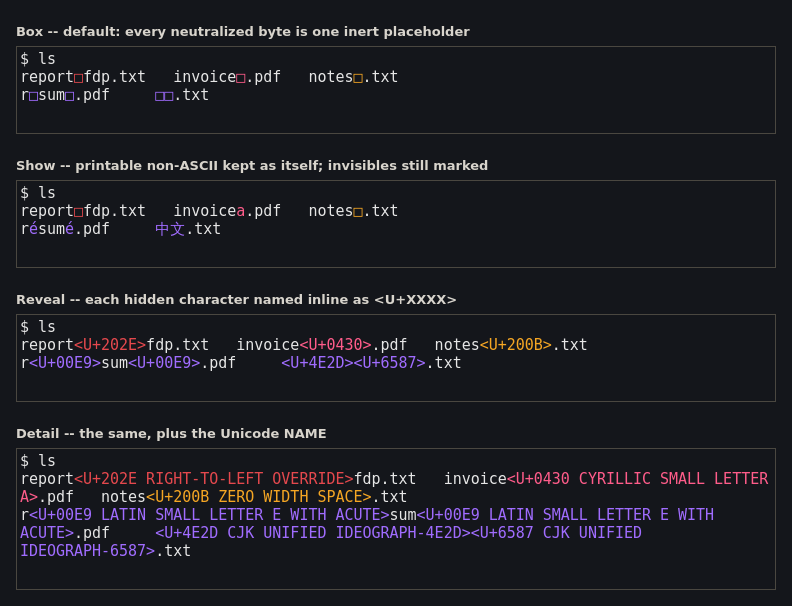
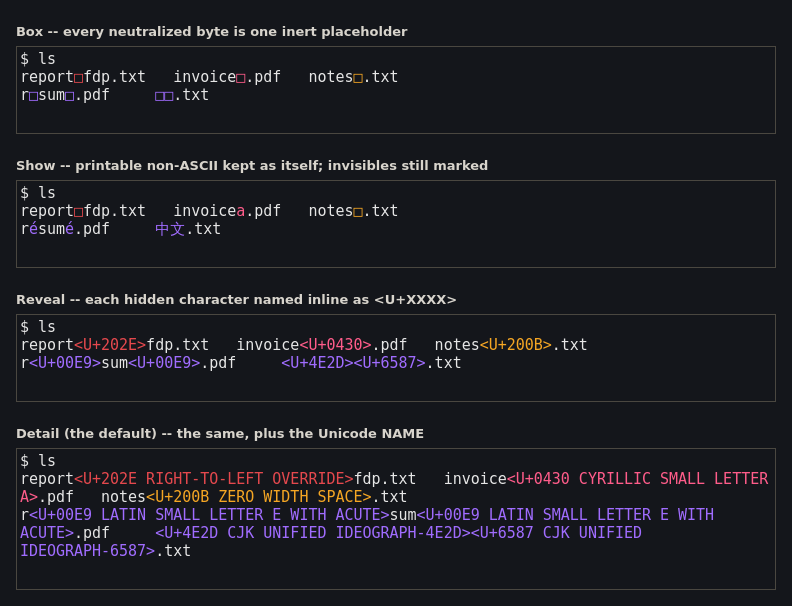
fix: detail is the default display mode, not box
Caught in review. The default is `detail` -- the ctor takes mode='detail',
main.py falls back to 'detail' for an unset/invalid unicode_mode, and
30_defaults.conf annotates it "safe default". Three places said or implied box.

- display-modes-shot.py: the Box panel was labelled "default"; the label now sits
  on Detail, where it belongs.
- hero-shot.py: rendered mode='box' while its docstring and the site figcaption
  both called it "the default display". Renders `detail` now, so the caption is
  true. It also reads better: the badge names the impostor inline
  (invoice<U+0430 CYRILLIC SMALL LETTER A>.pdf) instead of showing an anonymous
  box, and it still fits 560px without wrapping.
- man page DESCRIPTION: "Its default (Box) display" contradicted its own DISPLAY
  MODES section four screens later, which correctly calls detail the safe default.
  Rewritten to describe detail and what each other mode trades.
- site: hero alt text and figcaption rewritten for Detail (the old alt described
  placeholder boxes that are no longer in the image); grid alt names the default.

The "printable ASCII in the default mode" claims elsewhere are unaffected and were
in fact understated: detail's badges are ASCII, whereas box draws U+25A1.

Regenerated both images. Suite green: 448 + 504 + 739, 0 failed.

Changed region(s): [[0.0909, 0.6832, 0.5455, 0.7426], [0.0909, 0.0297, 0.6061, 0.0594]]

diff --git a/index.html b/index.html
@@ -68,10 +68,12 @@
     <a class="btn ghost" href="https://output-lies.github.io">See the problem it removes</a>
   </div>
   <figure class="shot" style="max-width:620px;margin:30px auto 0">
-    <a href="/shots/hero.png" target="_blank" rel="noopener"><img src="/shots/hero.png" width="560" height="160" alt="A short secure-terminal session in the default display mode. An ls of ~/Downloads lists installer.sh, invoice.pdf, report.txt and notes.md, but two of the names contain a single risk-coloured placeholder box where a hidden character was: a Cyrillic look-alike letter in one, a right-to-left override in the other. The following head -2 deploy.log output, deploy: starting and deploy: OK, is rendered as plain unremarkable text."></a>
-    <figcaption>The default display. Ordinary output stays ordinary - a terminal that mangled normal text would
-      not be usable - while two of those filenames carry a hidden character each and cannot pretend otherwise.
-      This is the text area, not a window capture: no title bar, tabs or toolbar.</figcaption>
+    <a href="/shots/hero.png" target="_blank" rel="noopener"><img src="/shots/hero.png" width="560" height="160" alt="A short secure-terminal session in Detail, the default display mode. An ls of ~/Downloads lists installer.sh, invoice.pdf, report.txt and notes.md, but two of the names carry a hidden character named inline in red: invoice contains U+0430 CYRILLIC SMALL LETTER A, a look-alike for ASCII a, and report contains U+202E RIGHT-TO-LEFT OVERRIDE. The following head -2 deploy.log output, deploy: starting and deploy: OK, is rendered as plain unremarkable text."></a>
+    <figcaption><b>Detail</b>, the default display mode. Ordinary output stays ordinary - a terminal that
+      mangled normal text would not be usable - while two of those filenames carry a hidden character each,
+      named inline so it cannot pretend otherwise. Three other modes trade verbosity for brevity:
+      <a href="#display-modes">see all four</a>. This is the text area, not a window capture: no title bar,
+      tabs or toolbar.</figcaption>
   </figure>
 </div></section>
 
@@ -216,7 +218,7 @@
         <figcaption class="shotname"><b>The same <code>ls</code> listing, all four modes</b> - three of the
           filenames are lying (a right-to-left override, a Cyrillic look-alike, a zero-width space) and two are
           honest non-ASCII (<code>r&#233;sum&#233;.pdf</code>, a CJK name).</figcaption>
-        <a href="/shots/display-modes.png" target="_blank" rel="noopener"><img src="/shots/display-modes.png" width="792" height="606" loading="lazy" alt="One ls listing rendered four times by secure-terminal. Box: every non-ASCII byte, hostile or honest, becomes a single coloured placeholder box, so the accented and CJK names are boxed too. Show: the honest resume.pdf and the CJK name are readable as themselves, while the Cyrillic look-alike 'a' is kept but tinted red and the bidi override and zero-width space still collapse to placeholders. Reveal: each hidden character is named inline as a badge, U+202E, U+0430, U+200B, U+00E9, U+4E2D, U+6587. Detail: the same badges expanded to full Unicode names, RIGHT-TO-LEFT OVERRIDE, CYRILLIC SMALL LETTER A, ZERO WIDTH SPACE, LATIN SMALL LETTER E WITH ACUTE, CJK UNIFIED IDEOGRAPH."></a>
+        <a href="/shots/display-modes.png" target="_blank" rel="noopener"><img src="/shots/display-modes.png" width="792" height="606" loading="lazy" alt="One ls listing rendered four times by secure-terminal, ending with Detail, the default. Box: every non-ASCII byte, hostile or honest, becomes a single coloured placeholder box, so the accented and CJK names are boxed too. Show: the honest resume.pdf and the CJK name are readable as themselves, while the Cyrillic look-alike 'a' is kept but tinted red and the bidi override and zero-width space still collapse to placeholders. Reveal: each hidden character is named inline as a badge, U+202E, U+0430, U+200B, U+00E9, U+4E2D, U+6587. Detail: the same badges expanded to full Unicode names, RIGHT-TO-LEFT OVERRIDE, CYRILLIC SMALL LETTER A, ZERO WIDTH SPACE, LATIN SMALL LETTER E WITH ACUTE, CJK UNIFIED IDEOGRAPH."></a>
         <figcaption>This is also the honest answer to <b>&quot;is it ASCII only?&quot;</b> - it is not, and the
           panels show why. <b>Box</b> is ASCII in text but draws a non-ASCII placeholder glyph, and it boxes
           <em>honest</em> non-ASCII too. <b>Show</b> deliberately keeps real printable non-ASCII, tinting a
